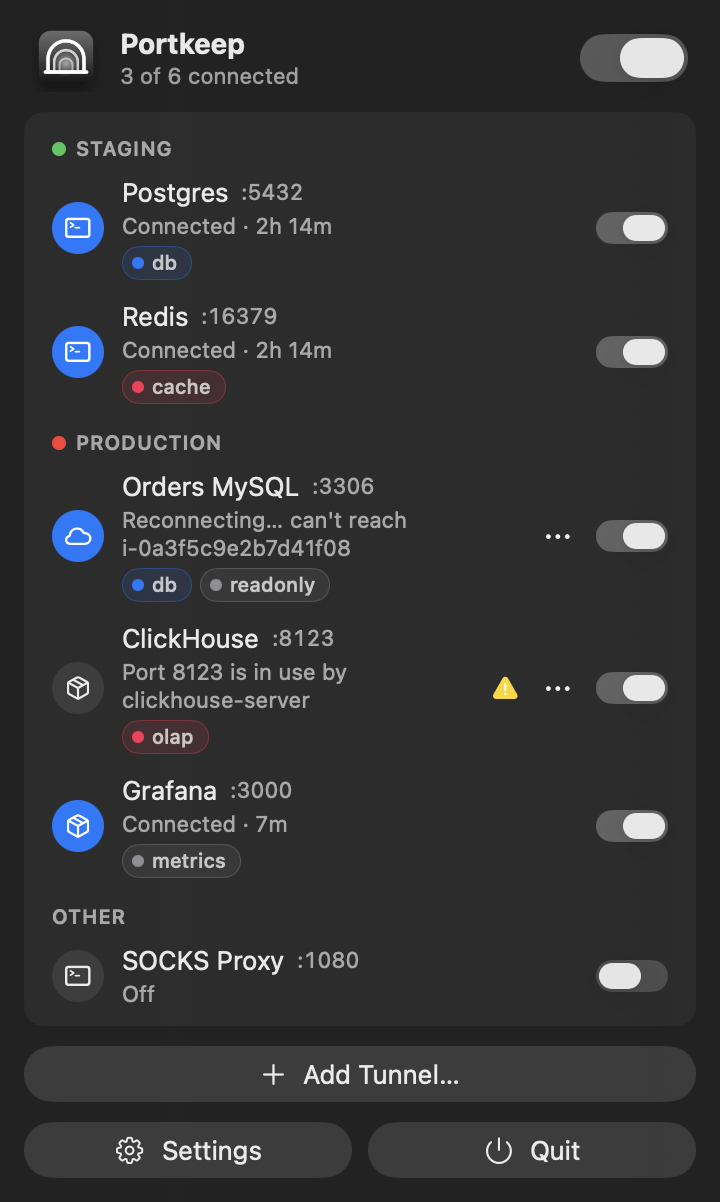
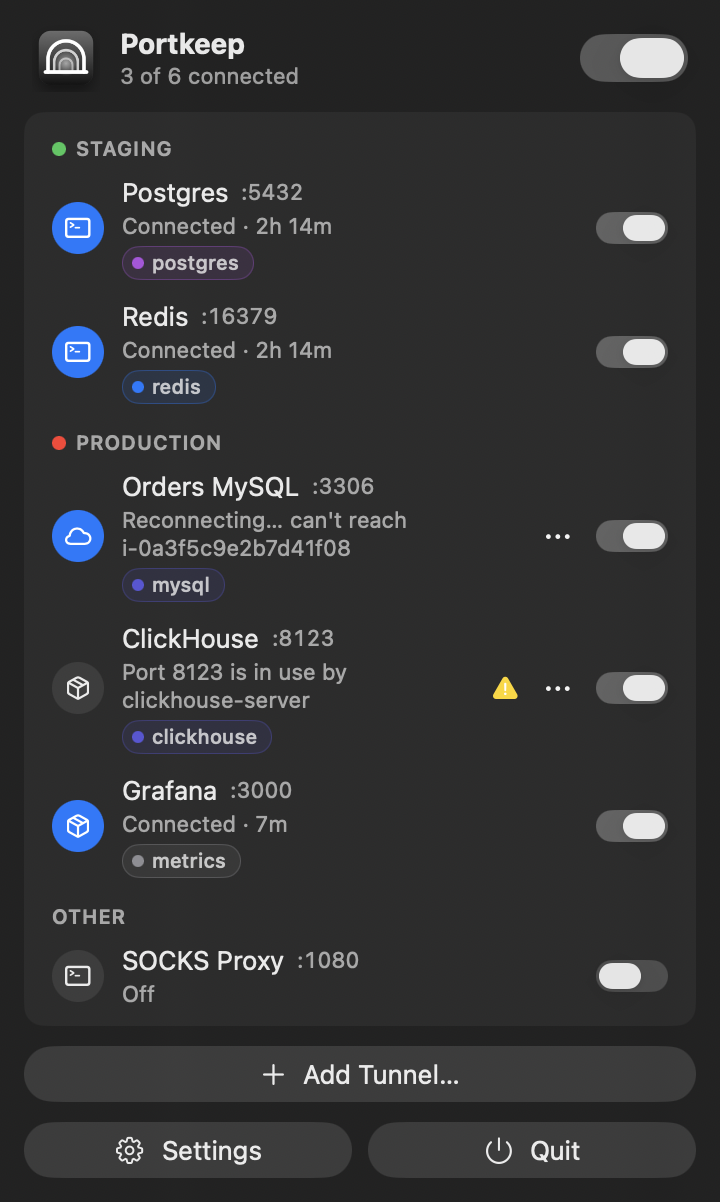
docs: one tag per tunnel; retake menu screenshots

diff --git a/App/TunnelStore.swift b/App/TunnelStore.swift
@@ -127,7 +127,7 @@ final class TunnelStore {
             (Tunnel(name: "SOCKS Proxy", group: "Other", localPort: 1080, method: .ssh(SSHConfig(mode: .dynamic, host: "jump"))),
              .off),
         ]
-        let demoTags: [[String]] = [["db"], ["cache"], ["db", "readonly"], ["olap"], ["metrics"], []]
+        let demoTags: [[String]] = [["postgres"], ["redis"], ["mysql"], ["clickhouse"], ["metrics"], []]
         var tunnels = demo.map(\.0)
         for index in tunnels.indices { tunnels[index].tags = demoTags[index] }
         file = TunnelFile(groups: ["Staging", "Production", "Other"], tunnels: tunnels,

diff --git a/README.md b/README.md
@@ -20,7 +20,7 @@ Portkeep is a macOS menu bar app for the tunnels you open every day: databases, 
 
 A terminal tab running `ssh -N -L 5432:db:5432 bastion` works until the laptop sleeps, the Wi-Fi changes or the session times out. Then your database client is the first to find out. Portkeep replaces those tabs:
 
-- **A switch per tunnel.** Each tunnel sits under a group (Production, Development, …) with its local port, live status and tags.
+- **A switch per tunnel.** Each tunnel sits under a group (Production, Development, …) with its local port, live status and a tag.
 - **Honest status.** A tunnel shows *Connected* only when its local port actually accepts connections; a running process isn't enough.
 - **Automatic reconnect.** It reconnects after sleep, a network change or a dropped session. Retries back off from 1 s to 60 s, and no retries are spent while you're offline.
 - **It remembers.** Tunnels that were on when Portkeep quit come back on at the next launch, including after a restart.
@@ -78,7 +78,7 @@ Install the CLIs for the methods you use, for example `brew install awscli kubec
 
 1. Click the tunnel icon in the menu bar, then **Add Tunnel…**
 2. Pick a method and fill in the fields. Hosts from `~/.ssh/config`, AWS profiles and kube contexts you already have are offered in pickers.
-3. Choose a local port, a group, and any tags. The **Runs** box shows the exact command.
+3. Choose a local port, a group and a tag (one per tunnel). The **Runs** box shows the exact command.
 4. Press **Test Connection** to check it, then **Add Tunnel**.
 5. Use a tunnel's switch in the menu to start or stop it. The switch at the top starts or stops them all.
 
